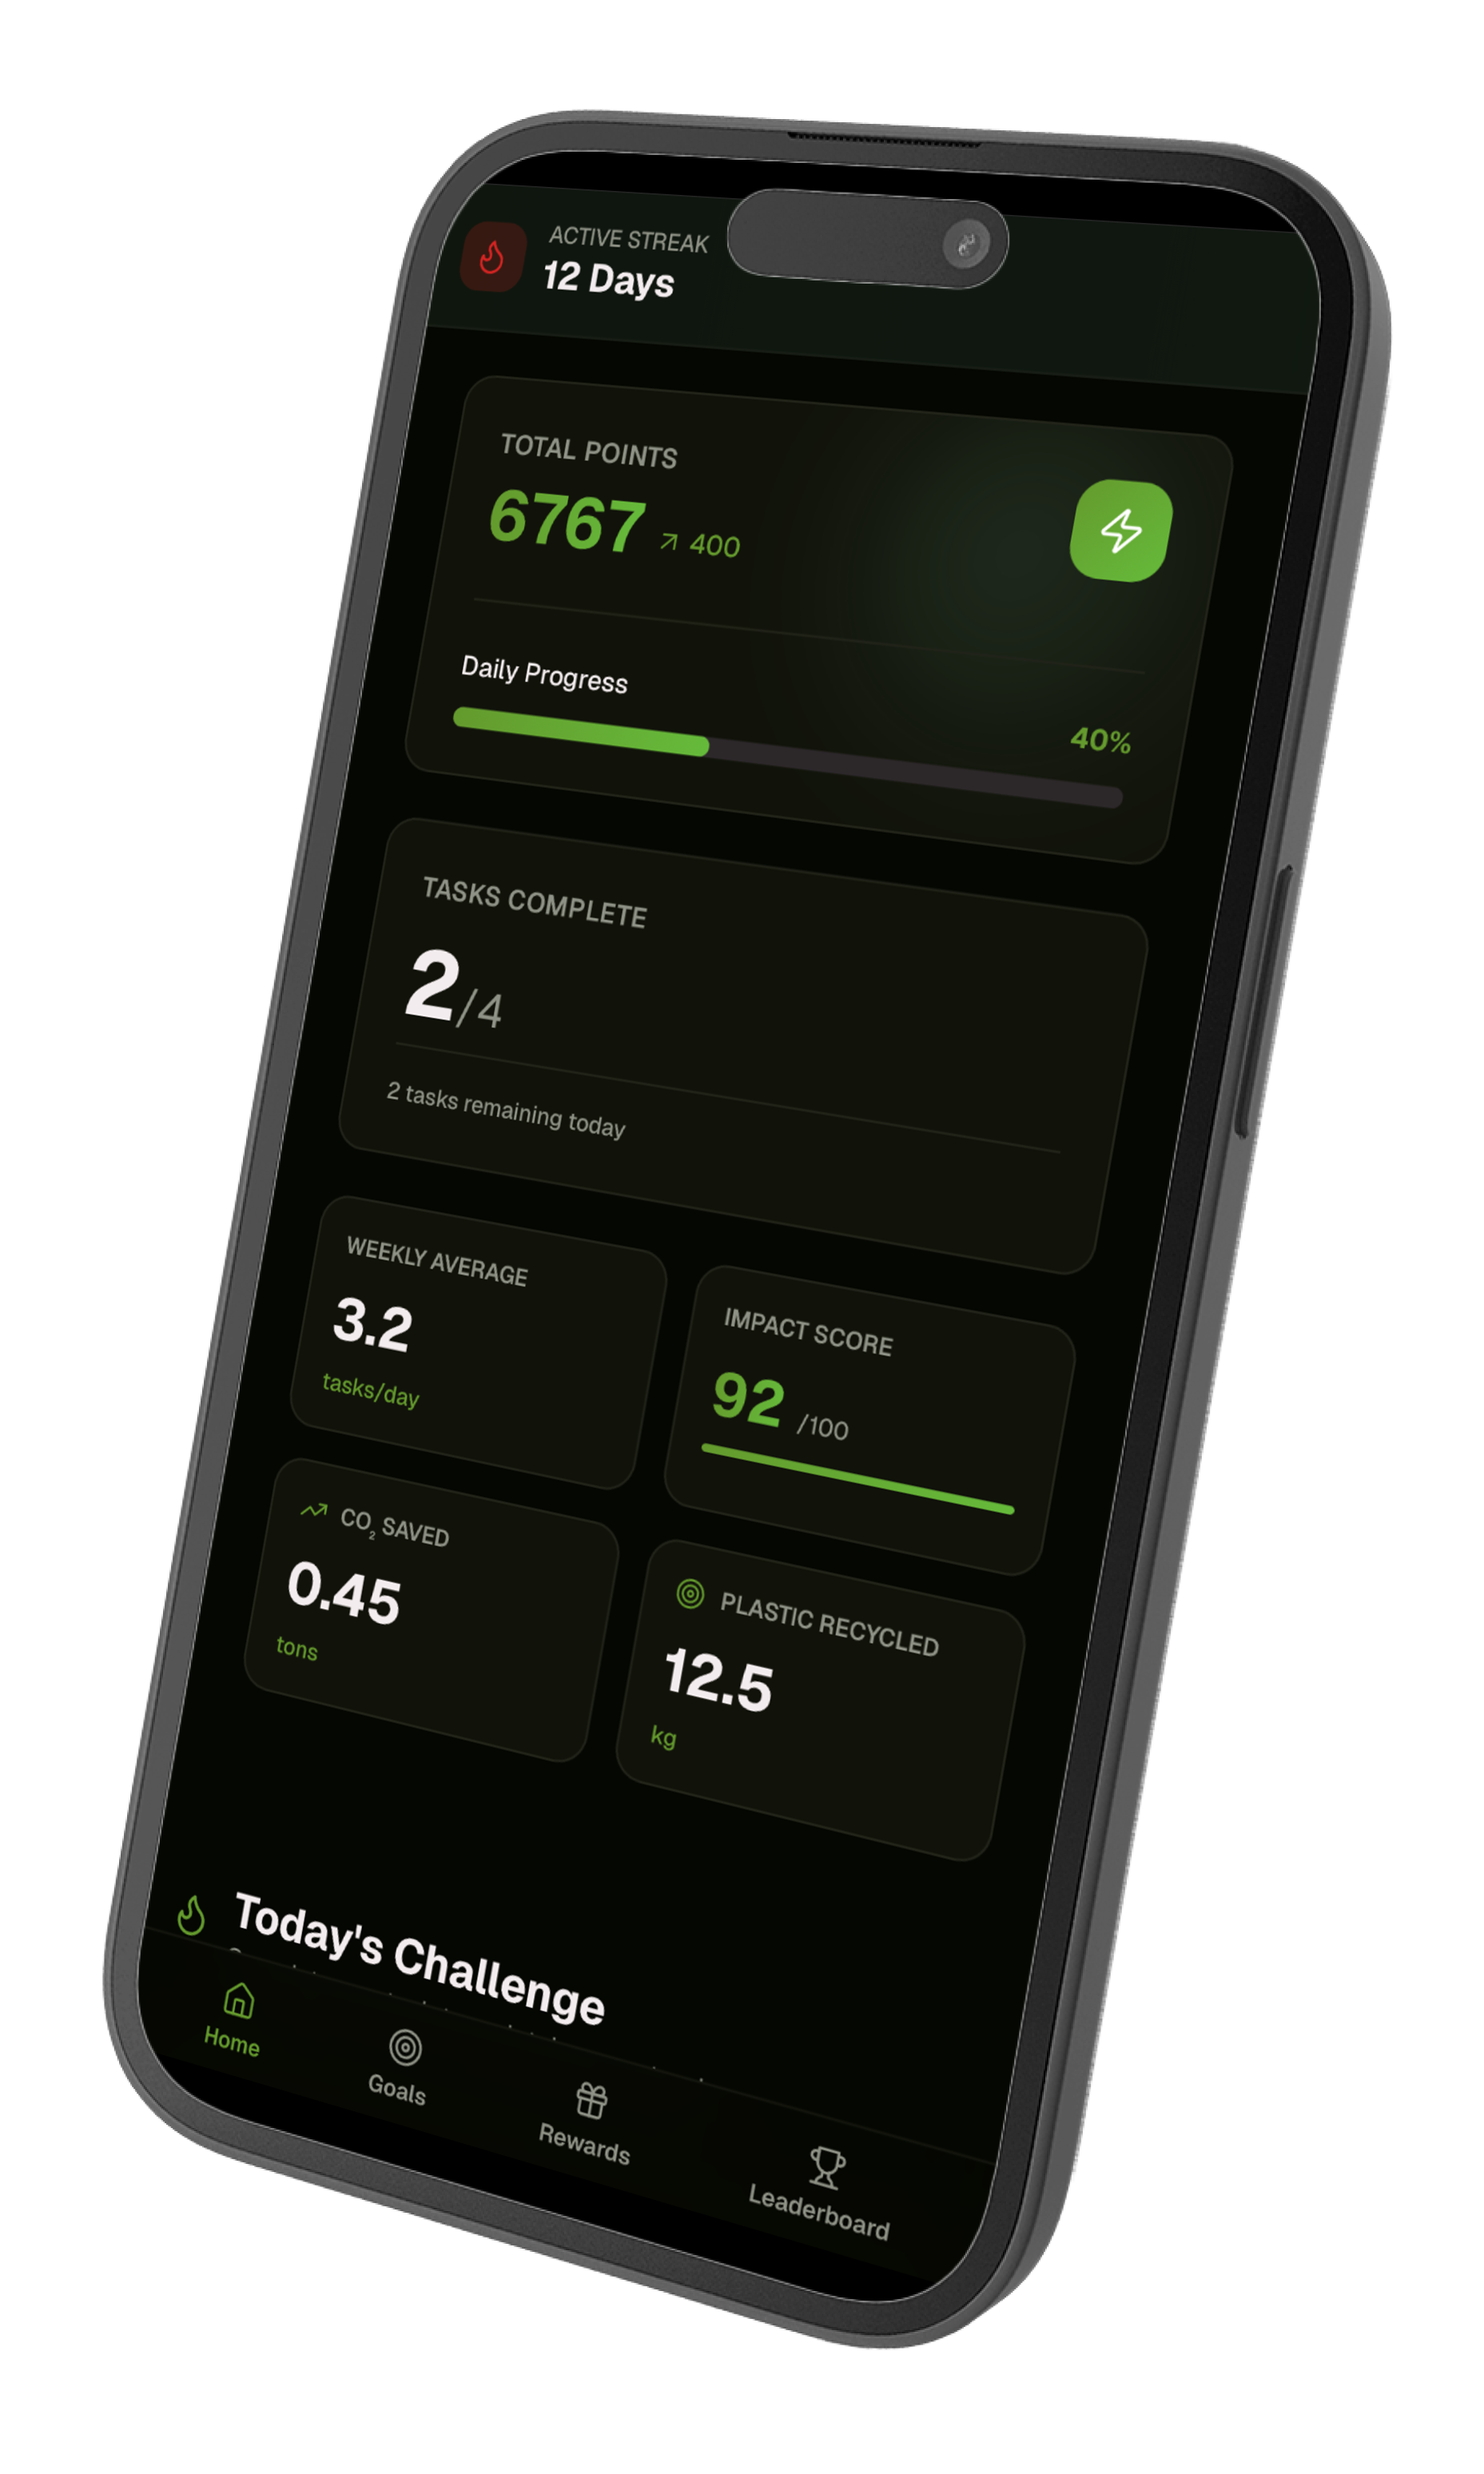
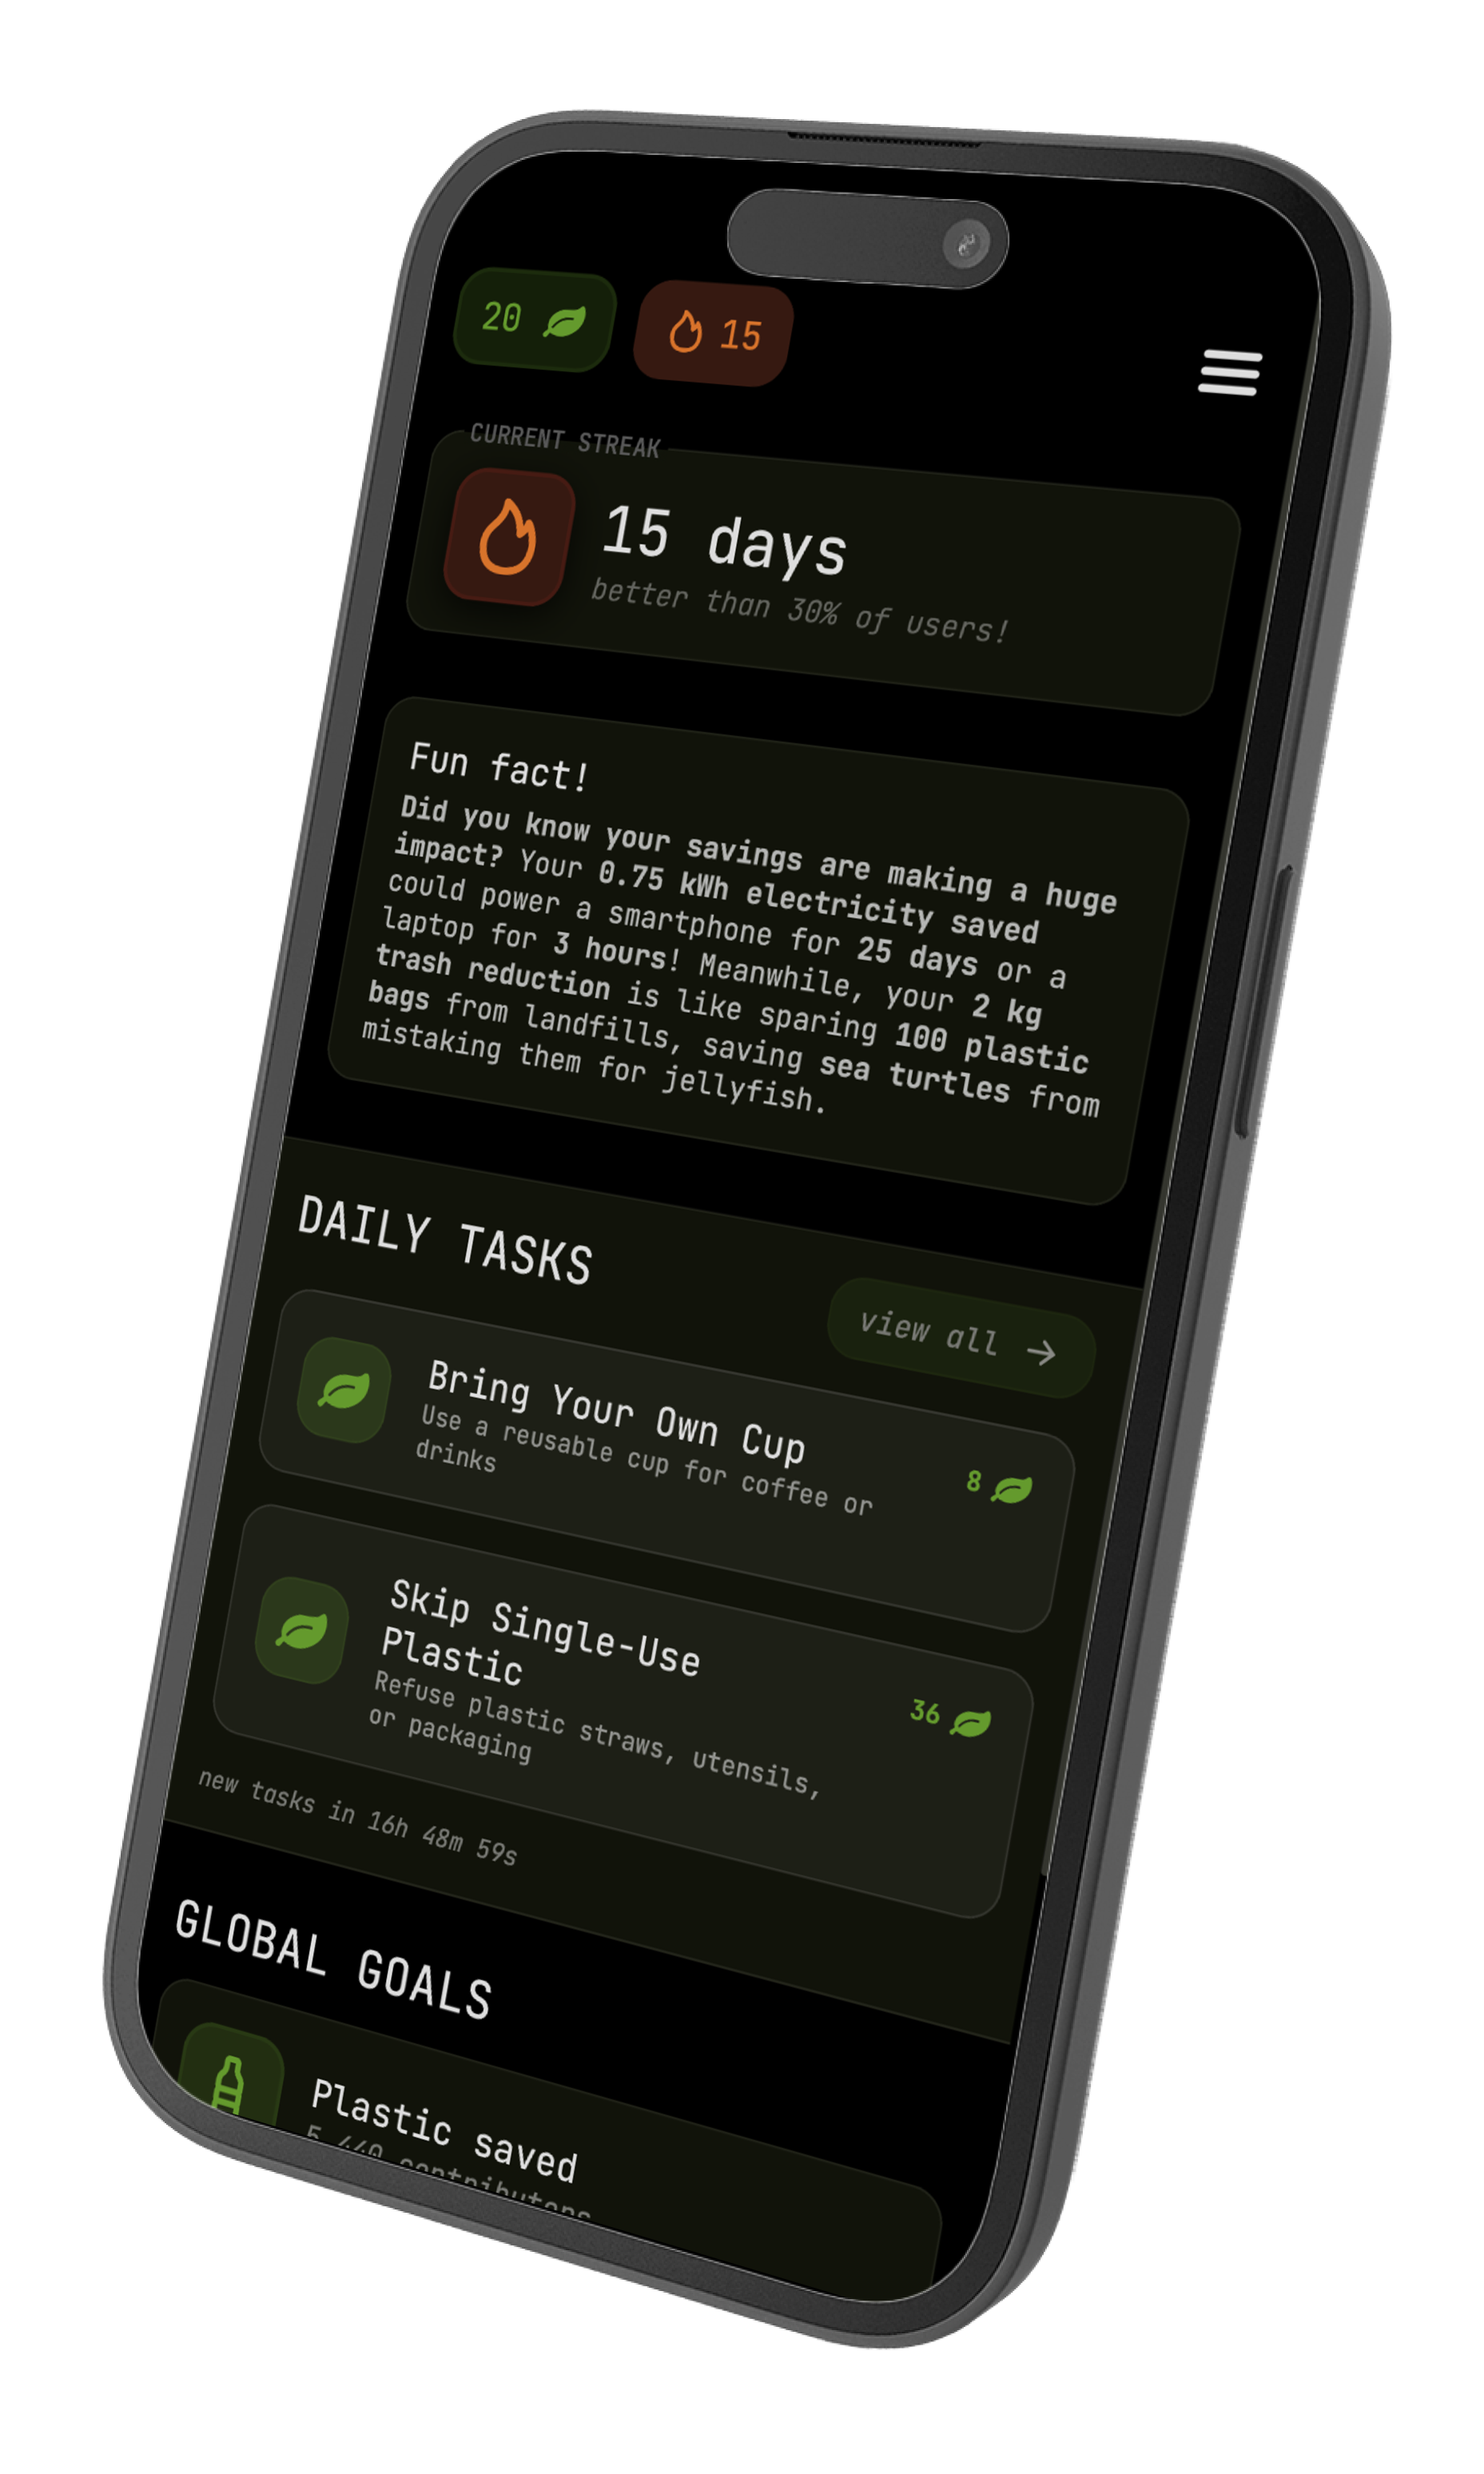
Completed landing page

diff --git a/styles/landing.css b/styles/landing.css
@@ -2,45 +2,260 @@
     width: 100%;
 }
 
-#container {
+#hero {
     display: flex;
-    justify-content: space-evenly;
+    justify-content: space-between;
     align-items: center;
+    min-height: 100vh;
+    padding: 3rem 5%;
+    gap: 5rem;
 
-    /* background: red; */
+    @media (max-width: 968px) {
+        flex-direction: column;
+        padding: 3rem 2rem;
+        gap: 3rem;
+    }
 
-    width: 100%;
-    height: 100vh;
+    & #text {
+        flex: 1;
+        max-width: 650px;
 
-    &>div {
-        /* background: blue; */
-
-        &>span {
+        & #branding {
             display: flex;
-            justify-content: flex-start;
             align-items: center;
+            gap: 0;
 
-            &>h1:first-of-type {
-                color: var(--accent);
+            & h1 {
+                font-size: 8.5rem;
+                font-weight: 600;
+                line-height: 0.9;
+                margin: 0;
 
-                margin-left: -0.1ch;
+                @media (max-width: 768px) {
+                    font-size: 5.5rem;
+                }
+
+                &:first-of-type {
+                    color: var(--accent);
+                    margin-left: -0.15ch;
+                }
             }
-        }
-
-        & h1 {
-            font-size: 9rem;
-            font-weight: 600;
         }
 
         & h3 {
             font-family: 'IBM Plex Mono';
             font-weight: 300;
+            font-size: 1.4rem;
+            margin: 1.2rem 0 1.8rem 0;
+            opacity: 0.85;
+        }
 
-            opacity: 0.9;
+        & p {
+            font-size: 1.15rem;
+            line-height: 1.7;
+            opacity: 0.7;
+            margin-bottom: 2.5rem;
+        }
+
+        & #actions {
+            display: flex;
+            gap: 1.2rem;
+
+            @media (max-width: 480px) {
+                flex-direction: column;
+            }
+
+            & a {
+                padding: 0.95rem 2.2rem;
+                text-decoration: none;
+                font-weight: 500;
+                border-radius: 6px;
+                transition: all 0.2s;
+            }
+
+            & #start {
+                background: var(--accent);
+                color: white;
+
+                &:hover {
+                    transform: translateY(-1px);
+                    box-shadow: 0 4px 12px rgba(0, 0, 0, 0.15);
+                }
+            }
+
+            & #login {
+                border: 1.5px solid var(--accent);
+                color: var(--accent);
+
+                &:hover {
+                    background: var(--accent);
+                    color: white;
+                }
+            }
         }
     }
 
-    & img {
-        height: 90%;
+    & #visual {
+        flex: 1;
+
+        & img {
+            width: 100%;
+            height: auto;
+            max-height: 88vh;
+            object-fit: contain;
+        }
     }
+}
+
+#what {
+    margin: 10em;
+
+    @media (max-width: 968px) {
+        padding: 4rem 2rem;
+    }
+
+    & h2 {
+        font-size: 2.8rem;
+        font-weight: 600;
+        margin-bottom: 3.5rem;
+        text-align: center;
+    }
+
+    & #perks {
+        display: grid;
+        grid-template-columns: repeat(auto-fit, minmax(230px, 1fr));
+        gap: 2.5rem;
+        max-width: 1100px;
+        margin: 0 auto;
+
+        &>div {
+            padding: 2rem 1.5rem;
+
+            & span {
+                font-size: 3rem;
+                display: block;
+                margin-bottom: 1rem;
+            }
+
+            & h4 {
+                font-size: 1.3rem;
+                font-weight: 600;
+                margin-bottom: 0.6rem;
+                color: var(--accent);
+            }
+
+            & p {
+                opacity: 0.75;
+                line-height: 1.5;
+            }
+        }
+    }
+}
+
+#how {
+    margin: 15em 0;
+
+    @media (max-width: 968px) {
+        padding: 4rem 2rem;
+    }
+
+    & h2 {
+        font-size: 2.8rem;
+        font-weight: 600;
+        margin-bottom: 3.5rem;
+        text-align: center;
+    }
+
+    & #flow {
+        display: flex;
+        justify-content: center;
+        align-items: center;
+        gap: 2rem;
+        max-width: 1100px;
+        margin: 0 auto;
+
+        @media (max-width: 768px) {
+            flex-direction: column;
+            gap: 2rem;
+        }
+
+        &>div#step {
+            flex: 1;
+            text-align: center;
+
+            & span {
+                width: 55px;
+                height: 55px;
+                border-radius: 50%;
+                background: var(--accent);
+                color: white;
+                display: flex;
+                align-items: center;
+                justify-content: center;
+                font-size: 1.6rem;
+                font-weight: 700;
+                margin: 0 auto 1.2rem auto;
+            }
+
+            & p {
+                font-size: 1.1rem;
+                font-weight: 500;
+                opacity: 0.8;
+            }
+        }
+
+        & img#arrow {
+            width: 40px;
+            height: 40px;
+            opacity: 0.5;
+
+            @media (max-width: 768px) {
+                transform: rotate(90deg);
+            }
+        }
+    }
+}
+
+#join {
+    padding: 5.5rem 5%;
+    background: var(--accent);
+    color: white;
+    text-align: center;
+
+    @media (max-width: 968px) {
+        padding: 4.5rem 2rem;
+    }
+
+    & h2 {
+        font-size: 3.2rem;
+        font-weight: 600;
+        margin-bottom: 1rem;
+    }
+
+    & p {
+        font-size: 1.25rem;
+        margin-bottom: 2.5rem;
+        opacity: 0.95;
+    }
+
+    & #cta {
+        display: inline-block;
+        padding: 1.1rem 3rem;
+        background: white;
+        color: var(--accent);
+        text-decoration: none;
+        font-weight: 600;
+        font-size: 1.15rem;
+        border-radius: 6px;
+        transition: all 0.2s;
+
+        &:hover {
+            transform: translateY(-2px);
+            box-shadow: 0 6px 20px rgba(0, 0, 0, 0.25);
+        }
+    }
+}
+
+#footer {
+    height: 10em;
 }

diff --git a/index.php b/index.php
@@ -1,0 +1,93 @@
+<!DOCTYPE html>
+<html lang="en">
+
+<head>
+    <meta charset="UTF-8">
+    <meta name="viewport" content="width=device-width, initial-scale=1.0">
+    <title>EcoQuest</title>
+    <link rel="stylesheet" href="./styles/style.css">
+    <link rel="stylesheet" href="./styles/landing.css">
+</head>
+
+<body>
+    <div id="page">
+        <div id="hero">
+            <div id="text">
+                <span id="branding">
+                    <h1>Eco</h1>
+                    <h1>Quest</h1>
+                </span>
+                <h3>lets gamify saving the world</h3>
+                <p>complete tasks. earn points. get rewards. save the planet.</p>
+                <div id="actions">
+                    <a href="./auth/register.php" id="start">get started</a>
+                    <a href="./auth/login.php" id="login">login</a>
+                </div>
+            </div>
+            <div id="visual">
+                <img src="./assets/mockup/1.png">
+            </div>
+        </div>
+
+        <div id="what">
+            <h2>whats inside EcoQuest?</h2>
+            <div id="perks">
+                <div id="missions">
+                    <span>🎯</span>
+                    <h4>missions</h4>
+                    <p>tackle real eco challenges</p>
+                </div>
+                <div id="points">
+                    <span>⚡</span>
+                    <h4>points</h4>
+                    <p>every action counts</p>
+                </div>
+                <div id="rewards">
+                    <span>🎁</span>
+                    <h4>rewards</h4>
+                    <p>redeem cool stuff</p>
+                </div>
+                <div id="community">
+                    <span>🌍</span>
+                    <h4>community</h4>
+                    <p>compete & collaborate</p>
+                </div>
+            </div>
+        </div>
+
+        <div id="how">
+            <h2>how it works</h2>
+            <div id="flow">
+                <div id="step">
+                    <span>1</span>
+                    <p>sign up</p>
+                </div>
+                <img src="./assets/arrow_right_long.svg" id="arrow">
+                <div id="step">
+                    <span>2</span>
+                    <p>complete tasks</p>
+                </div>
+                <img src="./assets/arrow_right_long.svg" id="arrow">
+                <div id="step">
+                    <span>3</span>
+                    <p>upload proof</p>
+                </div>
+                <img src="./assets/arrow_right_long.svg" id="arrow">
+                <div id="step">
+                    <span>4</span>
+                    <p>earn rewards</p>
+                </div>
+            </div>
+        </div>
+
+        <div id="join">
+            <h2>ready?</h2>
+            <p>start making an impact today</p>
+            <a href="./auth/register.php" id="cta">join now</a>
+        </div>
+
+        <div id="footer"></div>
+    </div>
+</body>
+
+</html>
